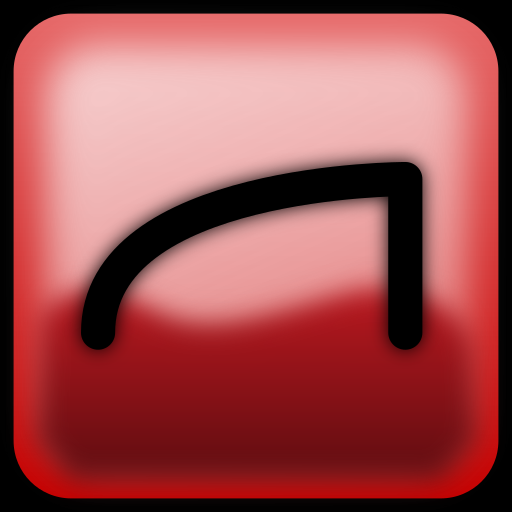
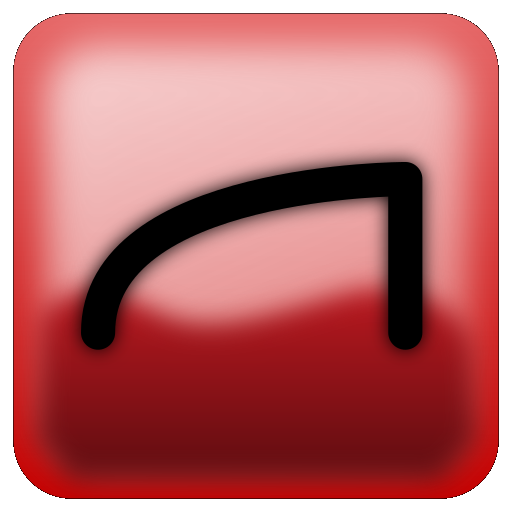
Use sRGB on the swap chain, use blending on the texture, add some comments.
sRGB on D3D12 swap chains is a bit tricky as a SRGB swap chain cannot be created
directly. Instead, it is created as _UNORM and the view is created with _SRGB.

Changed region(s): [[0.0, 0.0, 1.0, 1.0]]

diff --git a/src/D3D12Sample.cpp b/src/D3D12Sample.cpp
@@ -96,7 +96,7 @@ void D3D12Sample::PrepareRender ()
 	auto commandList = commandLists_ [currentBackBuffer_].Get ();
 	commandList->Reset (
 		commandAllocators_ [currentBackBuffer_].Get (), nullptr);
-	commandList->OMSetRenderTargets (1, &descriptorHeap_->GetCPUDescriptorHandleForHeapStart (), true, nullptr);
+	commandList->OMSetRenderTargets (1, &renderTargetDescriptorHeap_->GetCPUDescriptorHandleForHeapStart (), true, nullptr);
 	commandList->RSSetViewports (1, &viewport_);
 	commandList->RSSetScissorRects (1, &rectScissor_);
 
@@ -116,7 +116,7 @@ void D3D12Sample::PrepareRender ()
 		1
 	};
 
-	commandList->ClearRenderTargetView (descriptorHeap_->GetCPUDescriptorHandleForHeapStart (),
+	commandList->ClearRenderTargetView (renderTargetDescriptorHeap_->GetCPUDescriptorHandleForHeapStart (),
 		clearColor, 0, nullptr);
 }
 
@@ -218,6 +218,32 @@ void D3D12Sample::Run (const int frameCount)
 }
 
 ///////////////////////////////////////////////////////////////////////////////
+/**
+Create a render target view for the current render target. This will update
+the first entry in the descriptor heap.
+
+This function does not use a default view but instead changes the format to
+_SRGB.
+*/
+void D3D12Sample::CreateRenderTargetView ()
+{
+	const auto resourceDesc = renderTarget_->GetDesc ();
+
+	D3D12_RENDER_TARGET_VIEW_DESC viewDesc;
+	viewDesc.Format = DXGI_FORMAT_R8G8B8A8_UNORM_SRGB;
+	viewDesc.ViewDimension = D3D12_RTV_DIMENSION_TEXTURE2D;
+	viewDesc.Texture2D.MipSlice = 0;
+	viewDesc.Texture2D.PlaneSlice = 0;
+
+	device_->CreateRenderTargetView (renderTarget_.Get (), &viewDesc,
+		renderTargetDescriptorHeap_->GetCPUDescriptorHandleForHeapStart ());
+}
+
+///////////////////////////////////////////////////////////////////////////////
+/**
+Present the current frame by swapping the back buffer, then move to the
+next back buffer and also signal the fence for the current queue slot entry.
+*/
 void D3D12Sample::Present ()
 {
 	swapChain_->Present (1, 0);
@@ -227,8 +253,7 @@ void D3D12Sample::Present ()
 	swapChain_->GetBuffer (currentBackBuffer_, IID_PPV_ARGS (&renderTarget_));
 
 	// Update our render target slot
-	device_->CreateRenderTargetView (renderTarget_.Get (), nullptr,
-		descriptorHeap_->GetCPUDescriptorHandleForHeapStart ());
+	CreateRenderTargetView ();
 
 	// Mark the fence for the current frame.
 	const auto fenceValue = currentFenceValue_;
@@ -238,13 +263,17 @@ void D3D12Sample::Present ()
 }
 
 ///////////////////////////////////////////////////////////////////////////////
+/**
+Set up swap chain related resources, that is, the render target view, the
+fences, and the descriptor heap for the render target.
+*/
 void D3D12Sample::SetupSwapChain ()
 {
 	D3D12_DESCRIPTOR_HEAP_DESC heapDesc = {};
 	heapDesc.NumDescriptors = 1;
 	heapDesc.Type = D3D12_DESCRIPTOR_HEAP_TYPE_RTV;
 	heapDesc.Flags = D3D12_DESCRIPTOR_HEAP_FLAG_NONE;
-	device_->CreateDescriptorHeap (&heapDesc, IID_PPV_ARGS (&descriptorHeap_));
+	device_->CreateDescriptorHeap (&heapDesc, IID_PPV_ARGS (&renderTargetDescriptorHeap_));
 
 	currentFenceValue_ = 0;
 
@@ -258,8 +287,7 @@ void D3D12Sample::SetupSwapChain ()
 	}
 
 	swapChain_->GetBuffer (currentBackBuffer_, IID_PPV_ARGS (&renderTarget_));
-	device_->CreateRenderTargetView (renderTarget_.Get (), nullptr,
-		descriptorHeap_->GetCPUDescriptorHandleForHeapStart ());
+	CreateRenderTargetView ();
 }
 
 ///////////////////////////////////////////////////////////////////////////////
@@ -332,6 +360,9 @@ void D3D12Sample::CreateDeviceAndSwapChain ()
 	::ZeroMemory (&swapChainDesc, sizeof (swapChainDesc));
 
 	swapChainDesc.BufferCount = GetQueueSlotCount ();
+	// This is _UNORM but we'll use a _SRGB view on this. See 
+	// CreateRenderTargetView() for details, it must match what
+	// we specify here
 	swapChainDesc.BufferDesc.Format = DXGI_FORMAT_R8G8B8A8_UNORM;
 	swapChainDesc.BufferUsage = DXGI_USAGE_RENDER_TARGET_OUTPUT;
 	swapChainDesc.BufferDesc.Width = window_->GetWidth ();
@@ -543,7 +574,7 @@ void D3D12Sample::CreateTexture ()
 		1 /* tight row packing */, &width, &height);
 	device_->CreateCommittedResource (&CD3DX12_HEAP_PROPERTIES (D3D12_HEAP_TYPE_DEFAULT),
 		D3D12_HEAP_FLAG_NONE,
-		&CD3DX12_RESOURCE_DESC::Tex2D (DXGI_FORMAT_R8G8B8A8_UNORM, width, height, 1, 1),
+		&CD3DX12_RESOURCE_DESC::Tex2D (DXGI_FORMAT_R8G8B8A8_UNORM_SRGB, width, height, 1, 1),
 		D3D12_RESOURCE_STATE_COPY_DEST,
 		nullptr,
 		IID_PPV_ARGS (&image_));
@@ -568,7 +599,7 @@ void D3D12Sample::CreateTexture ()
 	D3D12_SHADER_RESOURCE_VIEW_DESC shaderResourceViewDesc = {};
 	shaderResourceViewDesc.ViewDimension = D3D12_SRV_DIMENSION_TEXTURE2D;
 	shaderResourceViewDesc.Shader4ComponentMapping = D3D12_DEFAULT_SHADER_4_COMPONENT_MAPPING;
-	shaderResourceViewDesc.Format = DXGI_FORMAT_R8G8B8A8_UNORM;
+	shaderResourceViewDesc.Format = DXGI_FORMAT_R8G8B8A8_UNORM_SRGB;
 	shaderResourceViewDesc.Texture2D.MipLevels = 1;
 	shaderResourceViewDesc.Texture2D.MostDetailedMip = 0;
 	shaderResourceViewDesc.Texture2D.ResourceMinLODClamp = 0.0f;
@@ -605,12 +636,21 @@ void D3D12Sample::CreatePipelineStateObject ()
 	psoDesc.PS.pShaderBytecode = pixelShader->GetBufferPointer ();
 	psoDesc.pRootSignature = rootSignature_.Get ();
 	psoDesc.NumRenderTargets = 1;
-	psoDesc.RTVFormats [0] = DXGI_FORMAT_R8G8B8A8_UNORM;
+	psoDesc.RTVFormats [0] = DXGI_FORMAT_R8G8B8A8_UNORM_SRGB;
 	psoDesc.DSVFormat = DXGI_FORMAT_UNKNOWN;
 	psoDesc.InputLayout.NumElements = std::extent<decltype(layout)>::value;
 	psoDesc.InputLayout.pInputElementDescs = layout;
 	psoDesc.RasterizerState = CD3DX12_RASTERIZER_DESC (D3D12_DEFAULT);
 	psoDesc.BlendState = CD3DX12_BLEND_DESC (D3D12_DEFAULT);
+	// Simple alpha blending
+	psoDesc.BlendState.RenderTarget [0].BlendEnable = true;
+	psoDesc.BlendState.RenderTarget [0].SrcBlend = D3D12_BLEND_SRC_ALPHA;
+	psoDesc.BlendState.RenderTarget [0].DestBlend = D3D12_BLEND_INV_SRC_ALPHA;
+	psoDesc.BlendState.RenderTarget [0].BlendOp = D3D12_BLEND_OP_ADD;
+	psoDesc.BlendState.RenderTarget [0].SrcBlendAlpha = D3D12_BLEND_ONE;
+	psoDesc.BlendState.RenderTarget [0].DestBlendAlpha = D3D12_BLEND_ZERO;
+	psoDesc.BlendState.RenderTarget [0].BlendOpAlpha = D3D12_BLEND_OP_ADD;
+	psoDesc.BlendState.RenderTarget [0].RenderTargetWriteMask = D3D12_COLOR_WRITE_ENABLE_ALL;
 	psoDesc.SampleDesc.Count = 1;
 	psoDesc.DepthStencilState.DepthEnable = false;
 	psoDesc.DepthStencilState.StencilEnable = false;

diff --git a/inc/D3D12Sample.h b/inc/D3D12Sample.h
@@ -45,7 +45,7 @@ protected:
 	UINT64 currentFenceValue_;
 	UINT64 fenceValues_[QUEUE_SLOT_COUNT];
 
-	Microsoft::WRL::ComPtr<ID3D12DescriptorHeap> descriptorHeap_;
+	Microsoft::WRL::ComPtr<ID3D12DescriptorHeap> renderTargetDescriptorHeap_;
 
 private:
 	void Initialize ();
@@ -65,6 +65,7 @@ private:
 	void CreateConstantBuffer ();
 	void CreateTexture ();
 	void SetupSwapChain ();
+	void CreateRenderTargetView ();
 
 	std::unique_ptr<Window> window_;
 
